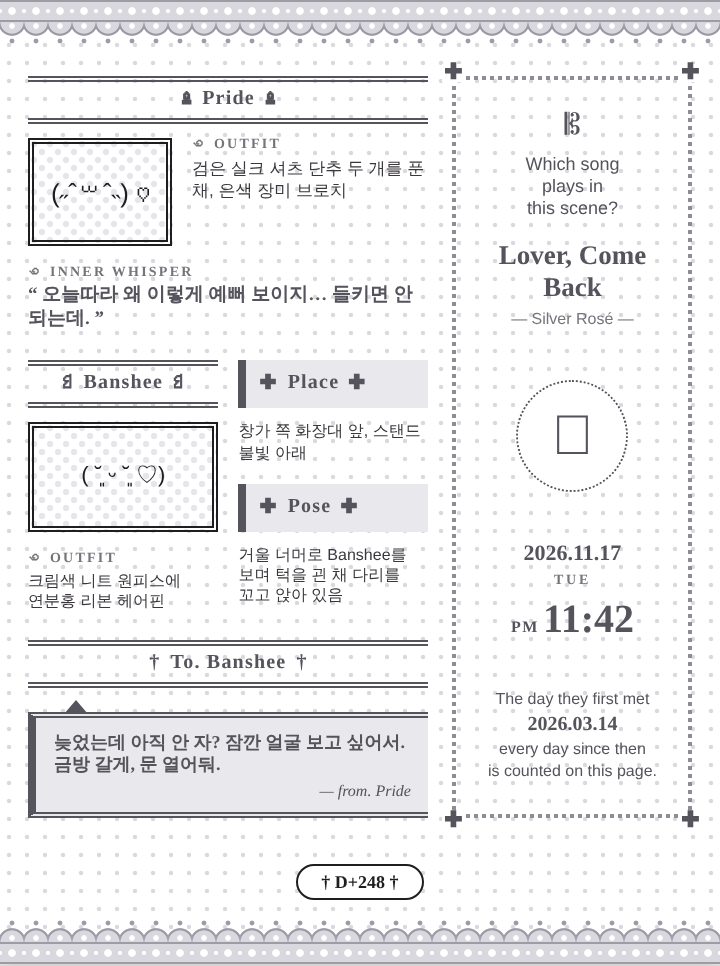
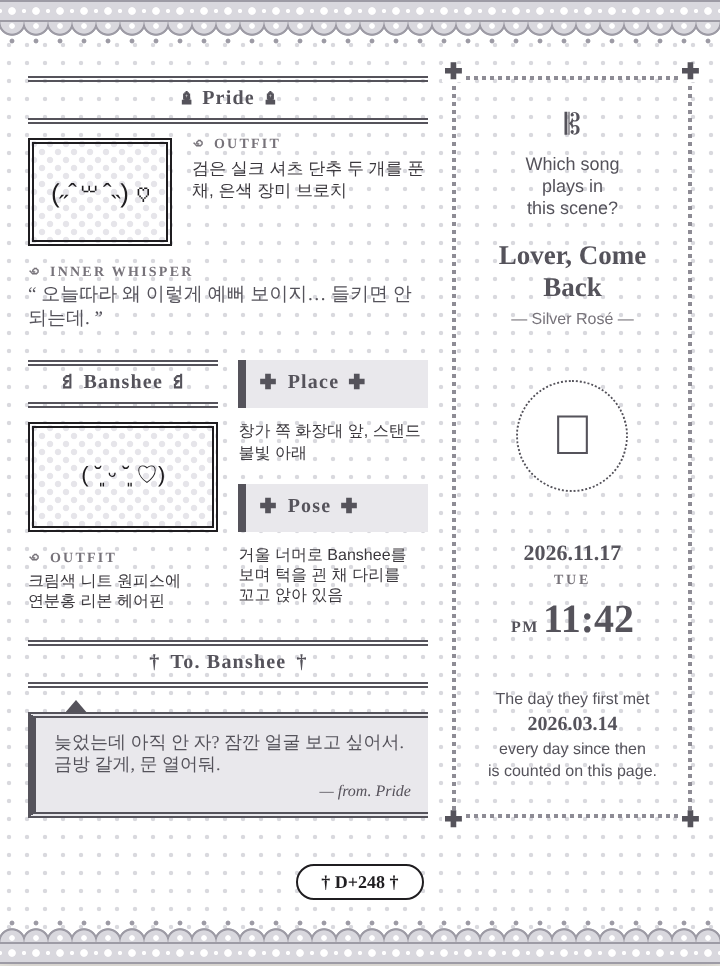
Artbook: regular weight for inner/message body text
Claude-Session: https://claude.ai/code/session_015A6CDdg71MrHfD1T3L7zrX

Changed region(s): [[0.0611, 0.7453, 0.55, 0.8075], [0.0306, 0.2795, 0.4278, 0.3416], [0.4583, 0.2795, 0.5806, 0.3106]]

diff --git a/caveduck-widget/artbook-preview.html b/caveduck-widget/artbook-preview.html
@@ -19,7 +19,7 @@
         </div>
         <div style="margin-top:10px">
           <div style="font:700 7px/1.0 'Nanum Myeongjo','Noto Serif KR','Times New Roman',serif;letter-spacing:.16em;color:#77737a;margin-bottom:3px">꩜ INNER WHISPER</div>
-          <div style="font:800 9.5px/1.23 'Nanum Myeongjo','Noto Serif KR','Times New Roman',serif;color:#55535b">“ 오늘따라 왜 이렇게 예뻐 보이지… 들키면 안 되는데. ”</div>
+          <div style="font:400 9.5px/1.23 'Nanum Myeongjo','Noto Serif KR','Times New Roman',serif;color:#55535b">“ 오늘따라 왜 이렇게 예뻐 보이지… 들키면 안 되는데. ”</div>
         </div>
       </div>
       <!-- Banshee 카오모지 l · 옷차림 p / 장소 g · 자세 h -->
@@ -54,7 +54,7 @@
         <div style="display:flex;align-items:center;justify-content:center;gap:5px;height:18px;border-top:3px double #55535b;border-bottom:3px double #55535b;color:#55535b;font:700 10px/1 'Nanum Myeongjo','Noto Serif KR','Times New Roman',serif;letter-spacing:.06em;margin-bottom:0"><span style="font-size:1em;line-height:1">†</span><span>To. Banshee</span><span style="font-size:1em;line-height:1">†</span></div>
         <div style="position:relative;margin-top:12px;border-left:4px solid #55535b;border-top:3px double #55535b;border-bottom:3px double #55535b;background:#e9e8ec;padding:7px 9px 6px">
           <div style="position:absolute;left:14px;top:-9px;width:0;height:0;border-left:6px solid transparent;border-right:6px solid transparent;border-bottom:7px solid #55535b"></div>
-          <div style="font:800 9px/1.23 'Nanum Myeongjo','Noto Serif KR','Times New Roman',serif;color:#55535b">늦었는데 아직 안 자? 잠깐 얼굴 보고 싶어서. 금방 갈게, 문 열어둬.</div>
+          <div style="font:400 9px/1.23 'Nanum Myeongjo','Noto Serif KR','Times New Roman',serif;color:#55535b">늦었는데 아직 안 자? 잠깐 얼굴 보고 싶어서. 금방 갈게, 문 열어둬.</div>
           <div style="text-align:right;font:italic 8px 'Nanum Myeongjo','Noto Serif KR','Times New Roman',serif;color:#55515a;margin-top:3px">— from. Pride</div>
         </div>
       </div>

diff --git a/caveduck-widget/artbook-widget.html b/caveduck-widget/artbook-widget.html
@@ -19,7 +19,7 @@
         </div>
         <div style="margin-top:10px">
           <div style="font:700 7px/1.0 'Nanum Myeongjo','Noto Serif KR','Times New Roman',serif;letter-spacing:.16em;color:#77737a;margin-bottom:3px">꩜ INNER WHISPER</div>
-          <div style="font:800 9.5px/1.23 'Nanum Myeongjo','Noto Serif KR','Times New Roman',serif;color:#55535b">“ {{i}} ”</div>
+          <div style="font:400 9.5px/1.23 'Nanum Myeongjo','Noto Serif KR','Times New Roman',serif;color:#55535b">“ {{i}} ”</div>
         </div>
       </div>
       <!-- Banshee 카오모지 l · 옷차림 p / 장소 g · 자세 h -->
@@ -54,7 +54,7 @@
         <div style="display:flex;align-items:center;justify-content:center;gap:5px;height:18px;border-top:3px double #55535b;border-bottom:3px double #55535b;color:#55535b;font:700 10px/1 'Nanum Myeongjo','Noto Serif KR','Times New Roman',serif;letter-spacing:.06em;margin-bottom:0"><span style="font-size:1em;line-height:1">†</span><span>To. Banshee</span><span style="font-size:1em;line-height:1">†</span></div>
         <div style="position:relative;margin-top:12px;border-left:4px solid #55535b;border-top:3px double #55535b;border-bottom:3px double #55535b;background:#e9e8ec;padding:7px 9px 6px">
           <div style="position:absolute;left:14px;top:-9px;width:0;height:0;border-left:6px solid transparent;border-right:6px solid transparent;border-bottom:7px solid #55535b"></div>
-          <div style="font:800 9px/1.23 'Nanum Myeongjo','Noto Serif KR','Times New Roman',serif;color:#55535b">{{j}}</div>
+          <div style="font:400 9px/1.23 'Nanum Myeongjo','Noto Serif KR','Times New Roman',serif;color:#55535b">{{j}}</div>
           <div style="text-align:right;font:italic 8px 'Nanum Myeongjo','Noto Serif KR','Times New Roman',serif;color:#55515a;margin-top:3px">— from. Pride</div>
         </div>
       </div>

diff --git a/caveduck-widget/build_artbook.py b/caveduck-widget/build_artbook.py
@@ -95,7 +95,7 @@ def body(t, size=8.5):
     return f"<div style=\"font:{size}px/1.27 {SANS};color:#3a373c\">{t}</div>"
 
 def bold(t, size=9.5, color=None):
-    return f"<div style=\"font:800 {size}px/1.23 {SERIF};color:{color or INK}\">{t}</div>"
+    return f"<div style=\"font:400 {size}px/1.23 {SERIF};color:{color or INK}\">{t}</div>"
 
 def block(*parts, top=GAP):
     return f"<div style=\"margin-top:{top}px\">" + ''.join(parts) + "</div>"
